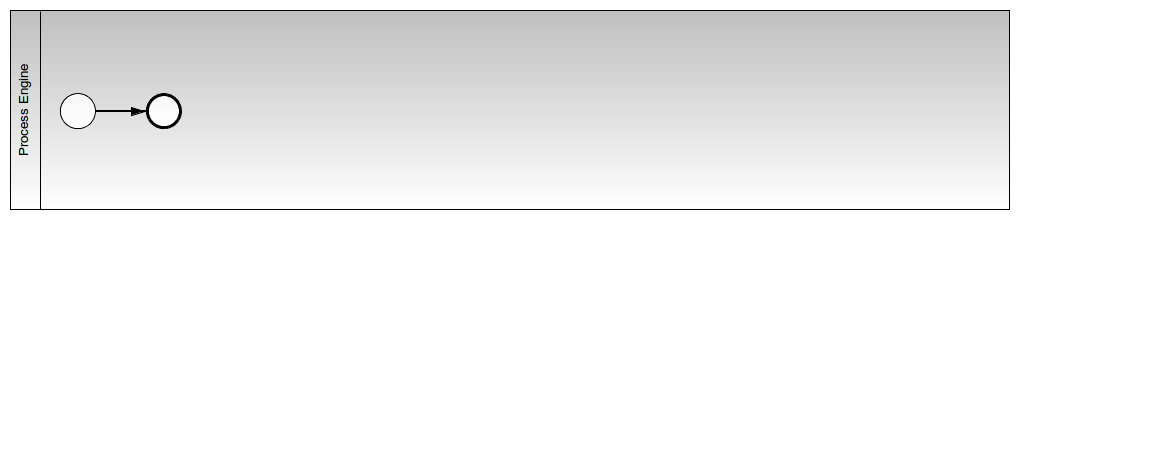
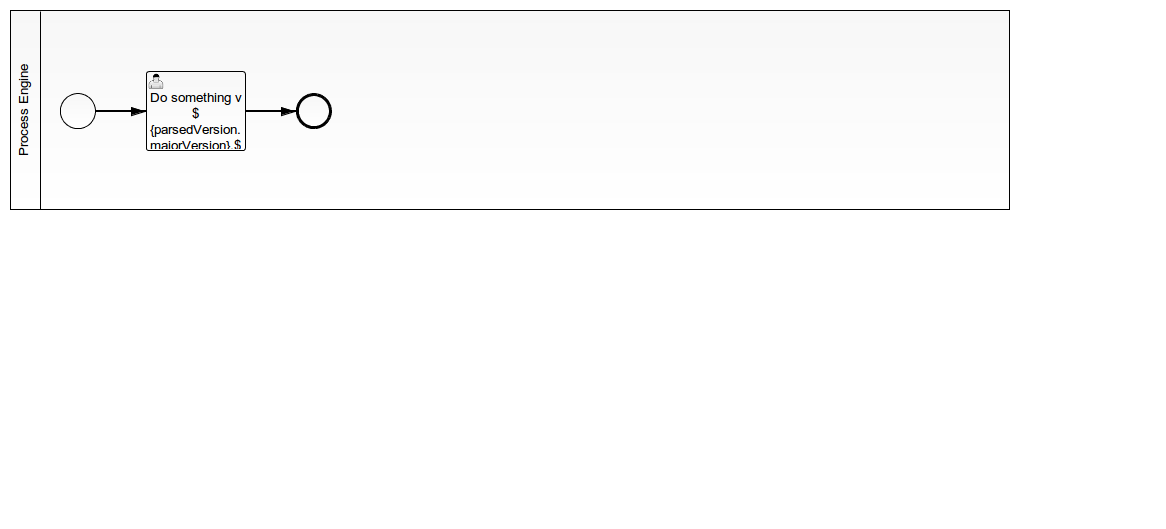
Add listener that sets the process version as a variable

Changed region(s): [[0.0, 0.0, 0.8645, 0.343], [0.0, 0.3742, 0.8645, 0.4053]]

diff --git a/snippets/multiple-versions-parallel/src/test/java/org/camunda/bpm/example/multiple_versions_parallel/nonarquillian/InMemoryH2Test.java b/snippets/multiple-versions-parallel/src/test/java/org/camunda/bpm/example/multiple_versions_parallel/nonarquillian/InMemoryH2Test.java
@@ -7,6 +7,7 @@ import java.util.ResourceBundle;
 
 import org.camunda.bpm.engine.impl.util.LogUtil;
 import org.camunda.bpm.engine.repository.ProcessDefinition;
+import org.camunda.bpm.engine.runtime.ProcessInstance;
 import org.camunda.bpm.engine.test.ProcessEngineTestCase;
 import org.camunda.bpm.engine.test.Deployment;
 
@@ -26,7 +27,9 @@ public class InMemoryH2Test extends ProcessEngineTestCase {
   public void testParsingAndDeployment() throws IOException {
     Properties version = new Properties();
     version.load(this.getClass().getResourceAsStream("/version.properties"));
-    runtimeService.startProcessInstanceByKey(PROCESS_DEFINITION_KEY + version.getProperty("maven.version.major") + "." + version.getProperty("maven.version.minor"));
+    ProcessInstance processInstance = runtimeService.startProcessInstanceByKey(PROCESS_DEFINITION_KEY + version.getProperty("maven.version.major") + "." + version.getProperty("maven.version.minor"));
+    
+    System.out.println(runtimeService.getVariable(processInstance.getId(), "processDefinitionVersion"));
   }
 
   @Deployment(resources = { "process.bpmn", "process-v7.4.bpmn" })

diff --git a/snippets/multiple-versions-parallel/src/main/java/org/camunda/bpm/example/multiple_versions_parallel/SetVersionVariableListener.java b/snippets/multiple-versions-parallel/src/main/java/org/camunda/bpm/example/multiple_versions_parallel/SetVersionVariableListener.java
@@ -1,0 +1,17 @@
+package org.camunda.bpm.example.multiple_versions_parallel;
+
+import java.util.Properties;
+
+import org.camunda.bpm.engine.delegate.DelegateExecution;
+import org.camunda.bpm.engine.delegate.ExecutionListener;
+
+public class SetVersionVariableListener implements ExecutionListener {
+
+  @Override
+  public void notify(DelegateExecution execution) throws Exception {
+    Properties version = new Properties();
+    version.load(this.getClass().getResourceAsStream("/version.properties"));
+    execution.setVariable("processDefinitionVersion", version.getProperty("maven.version.major") + "." + version.getProperty("maven.version.minor"));
+  }
+
+}
